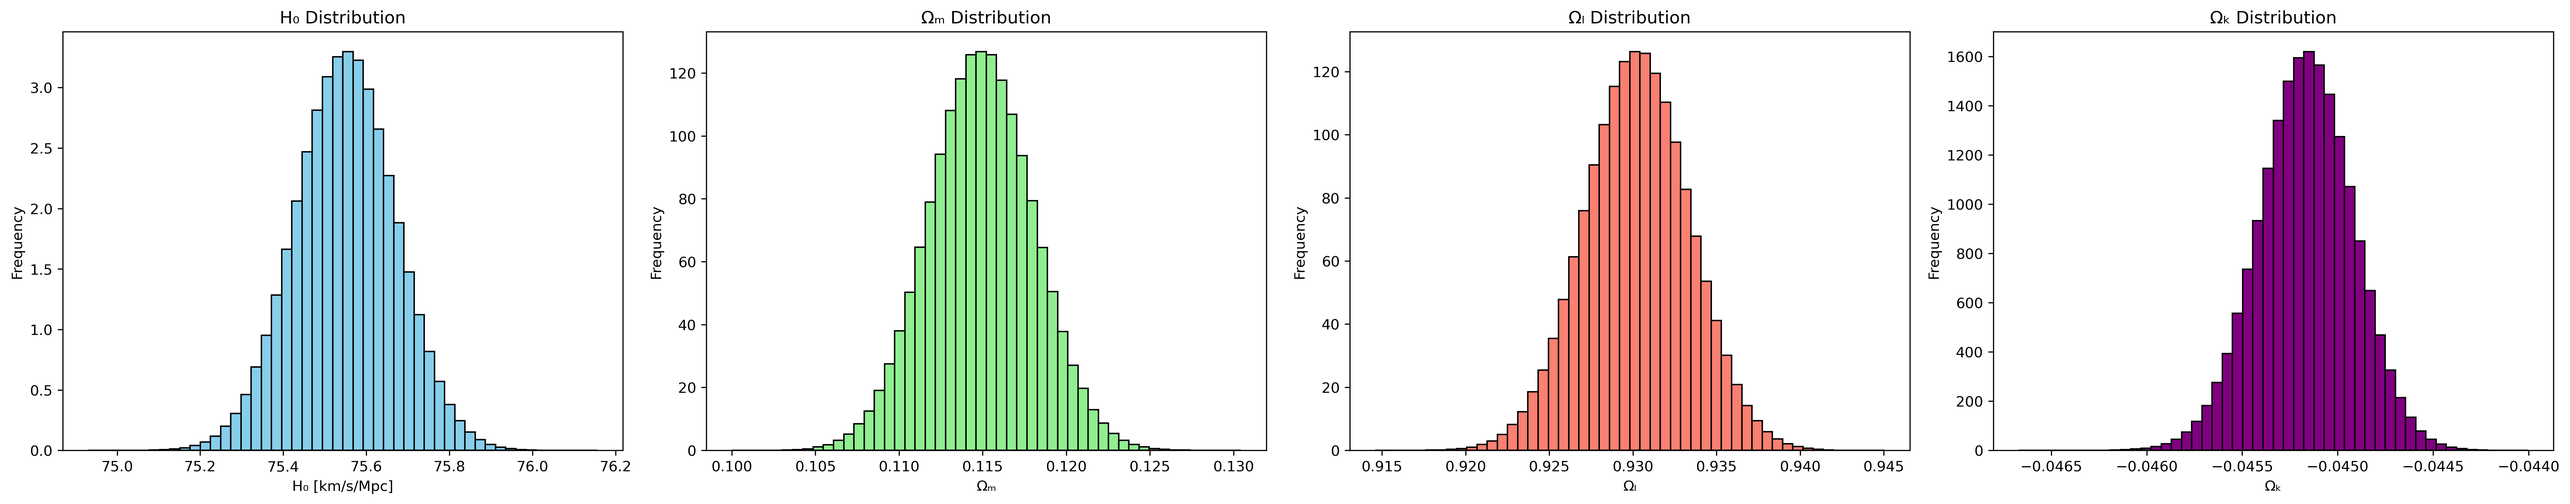
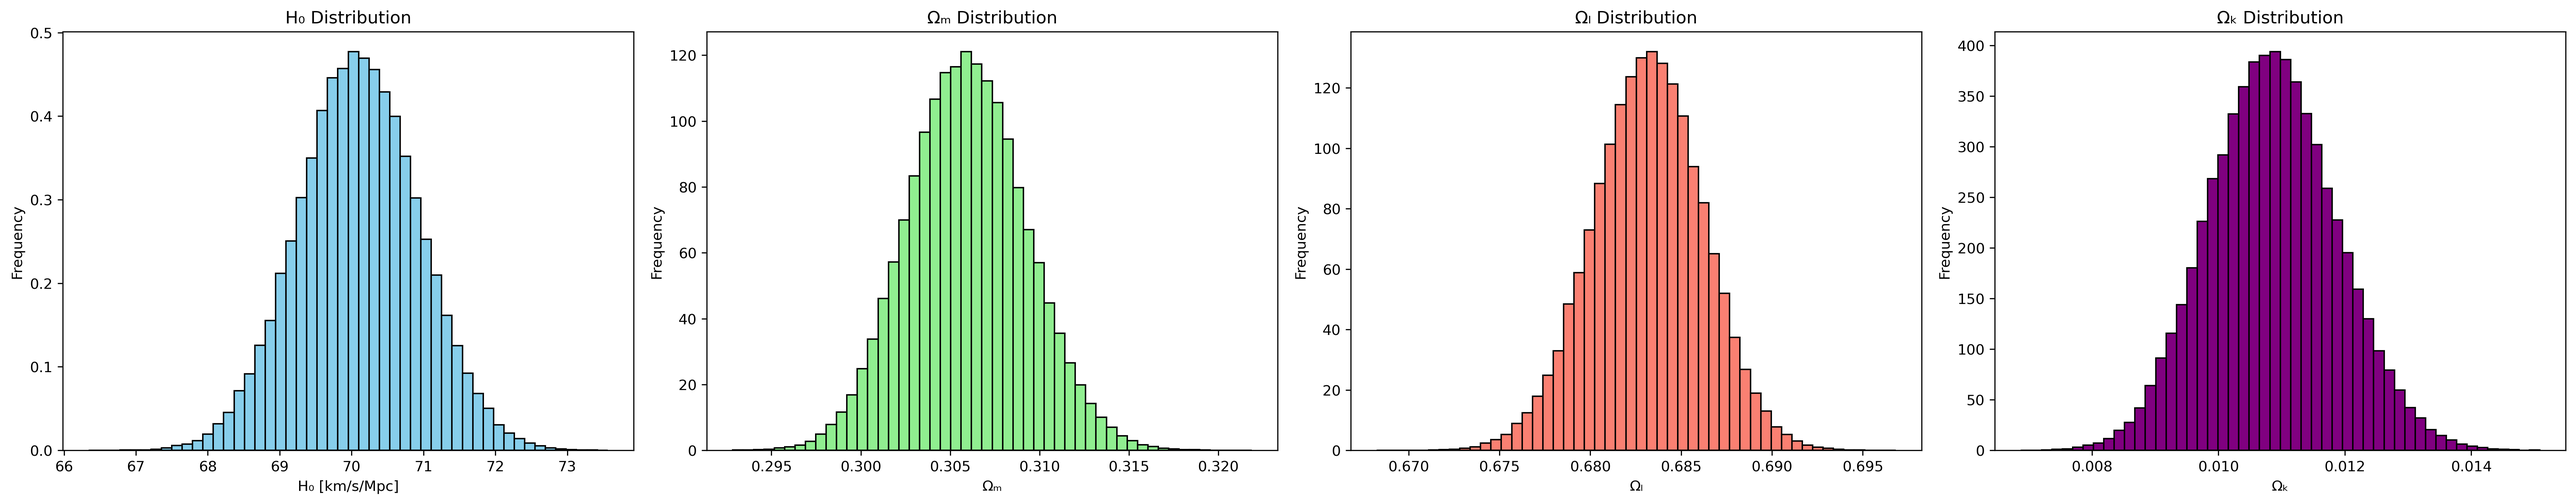
sbi working, matching results

diff --git a/Supernova_project/sbi_cosmology.py b/Supernova_project/sbi_cosmology.py
@@ -10,18 +10,49 @@ from sbi import inference as inference
 from sbi.neural_nets.factory import posterior_nn
 from sbi.analysis import pairplot
 import corner
+import random
 
-# Set seeds for reproducibility
+# Set global random seed at the very top of the file
 RANDOM_SEED = 42
-torch.manual_seed(RANDOM_SEED)
-np.random.seed(RANDOM_SEED)
-torch.backends.cudnn.deterministic = True
-torch.backends.cudnn.benchmark = False
+
+# Set seeds for all random number generators
+import os
+os.environ['PYTORCH_ENABLE_MPS_FALLBACK'] = '1'
+
+import torch
+import numpy as np
+import matplotlib.pyplot as plt
+from torch import nn
+from torch.distributions import Independent, Uniform, Normal
+from sbi import inference as inference
+from sbi.neural_nets.factory import posterior_nn
+from sbi.analysis import pairplot
+import corner
+
+# Set all random seeds
+def set_seed(seed):
+    """Set all random seeds for reproducibility"""
+    random.seed(seed)
+    np.random.seed(seed)
+    torch.manual_seed(seed)
+    if torch.cuda.is_available():
+        torch.cuda.manual_seed(seed)
+        torch.cuda.manual_seed_all(seed)
+        torch.backends.cudnn.deterministic = True
+        torch.backends.cudnn.benchmark = False
+    if hasattr(torch.backends, 'mps'):
+        torch.backends.mps.deterministic = True
+
+# Call set_seed at the start
+set_seed(RANDOM_SEED)
 
 class SBIConfig:
+    # Add random seed to config
+    RANDOM_SEED = RANDOM_SEED
+    
     # SBI settings
-    NUM_SIMULATIONS = 100000
-    NUM_POSTERIOR_SAMPLES = 1000000  # Increased for better posterior visualization
+    NUM_SIMULATIONS = 10000
+    NUM_POSTERIOR_SAMPLES = 100000  # Increased for better posterior visualization
     BATCH_SIZE = 128    
     # Physics constants
     C = 299792.458  # Speed of light in km/s
@@ -34,22 +65,22 @@ class SBIConfig:
     PLOT_PATH = '/Users/yhra/Documents/Master/Semester_3/BATIP/Supernova_project/Plots/'
     
     # Neural network settings
-    EMBEDDING_DIM = 16
-    HIDDEN_FEATURES = 128
-    NUM_TRANSFORMS = 10
+    EMBEDDING_DIM = 2
+    HIDDEN_FEATURES = 64
+    NUM_TRANSFORMS = 5
     
     EPSILON = 1e-5
-    DEVICE = torch.device("cpu")
+    DEVICE = torch.device("mps")
     
     # Parameter priors (mean, std)
     PARAM_PRIORS = {
         'flat': {
-            'H0': (71.0, 5),  # centered at 70 with std of 2.5
-            'Om': (0.3, 0.1)   # centered at 0.3 with std of 0.05
+            'H0': (70.0, 2.5),  # centered at 70 with std of 2.5
+            'Om': (0.3, 0.05)   # centered at 0.3 with std of 0.05
         },
         'curved': {
-            'H0': (71.0, 5),
-            'Om': (0.3, 0.1),  # centered at 0.45 with std of (0.9-0)/4
+            'H0': (70.0, 2.5),
+            'Om': (0.3, 0.05),  # centered at 0.45 with std of (0.9-0)/4
             'Ok': (0.0, 0.05)      # centered at 0 with std of 0.1
         }
     }
@@ -57,6 +88,7 @@ class SBIConfig:
 class CosmologicalSimulator:
     def __init__(self, z_obs, model_type="flat"):
         """Initialize the simulator with observed redshift values"""
+        set_seed(SBIConfig.RANDOM_SEED)  # Set seed in constructor
         self.z = torch.as_tensor(z_obs, dtype=torch.float32).clone().detach()
         self.model_type = model_type
         
@@ -205,12 +237,20 @@ def plot_training_data(z_obs, mu_obs, mu_err, theta, simulated_data, model_type=
         ax2.errorbar(z_obs.numpy(), mu_obs.numpy(), yerr=mu_err.numpy(),
                     fmt='r.', alpha=0.5, label='Data', markersize=2)
         
-        # Plot random subset of simulations with fixed seed
-        rng = np.random.RandomState(RANDOM_SEED)
-        indices = rng.choice(len(theta), 50, replace=False)
-        for idx in indices:
-            ax2.plot(z_obs.numpy(), simulated_data[idx].numpy(), 
-                    'b-', alpha=0.1)
+        # Plot all simulations to show distribution
+        simulated_mean = simulated_data.mean(dim=0).numpy()
+        simulated_std = simulated_data.std(dim=0).numpy()
+        
+        # Plot mean and standard deviation bands
+        ax2.fill_between(z_obs.numpy(), 
+                        simulated_mean - 2*simulated_std,
+                        simulated_mean + 2*simulated_std,
+                        color='b', alpha=0.1, label='2σ region')
+        ax2.fill_between(z_obs.numpy(),
+                        simulated_mean - simulated_std,
+                        simulated_mean + simulated_std,
+                        color='b', alpha=0.2, label='1σ region')
+        ax2.plot(z_obs.numpy(), simulated_mean, 'b-', label='Mean prediction')
         
         ax2.set_xlabel('Redshift (z)')
         ax2.set_ylabel('Distance Modulus (μ)')
@@ -257,12 +297,25 @@ def plot_training_data(z_obs, mu_obs, mu_err, theta, simulated_data, model_type=
         ax3.errorbar(z_obs.numpy(), mu_obs.numpy(), yerr=mu_err.numpy(),
                     fmt='r.', alpha=0.5, label='Data', markersize=2)
         
-        # Plot random subset of simulations
-        rng = np.random.RandomState(RANDOM_SEED)
-        indices = rng.choice(len(theta), 50, replace=False)
-        for idx in indices:
-            ax3.plot(z_obs.numpy(), simulated_data[idx].numpy(), 
-                    'b-', alpha=0.1)
+        # Plot all simulations to show distribution
+        simulated_mean = simulated_data.mean(dim=0).numpy()
+        simulated_std = simulated_data.std(dim=0).numpy()
+        
+        # Plot mean and standard deviation bands
+        ax3.fill_between(z_obs.numpy(), 
+                        simulated_mean - 2*simulated_std,
+                        simulated_mean + 2*simulated_std,
+                        color='b', alpha=0.2, label='95% CI')
+        ax3.fill_between(z_obs.numpy(),
+                        simulated_mean - simulated_std, 
+                        simulated_mean + simulated_std,
+                        color='b', alpha=0.3, label='68% CI')
+        ax3.plot(z_obs.numpy(), simulated_mean, 'b-', label='Mean prediction')
+        
+        # Plot all individual simulations with high transparency
+        for i in range(len(simulated_data)):
+            ax3.plot(z_obs.numpy(), simulated_data[i].numpy(),
+                    'b-', alpha=0.01)
         
         ax3.set_xlabel('Redshift (z)')
         ax3.set_ylabel('Distance Modulus (μ)')
@@ -292,6 +345,7 @@ def plot_training_data(z_obs, mu_obs, mu_err, theta, simulated_data, model_type=
 class CosmologySBI:
     def __init__(self, z_obs, mu_obs, mu_err):
         """Initialize the SBI trainer with observed data"""
+        set_seed(SBIConfig.RANDOM_SEED)  # Set seed in constructor
         self.z_obs = z_obs
         self.mu_obs = mu_obs
         self.mu_err = mu_err
@@ -336,6 +390,7 @@ class CosmologySBI:
     
     def train(self):
         """Train the neural network"""
+        set_seed(SBIConfig.RANDOM_SEED)  # Set seed before training
         # Setup prior based on current model type
         self.setup_prior()
         
@@ -380,9 +435,10 @@ class CosmologySBI:
             training_batch_size=SBIConfig.BATCH_SIZE
         )
         self.posterior = self.posterior_estimator.build_posterior(density_estimator)
-    # TODO: 
+    
     def sample_posterior(self, num_samples=None):
         """Sample from the posterior distribution"""
+        set_seed(SBIConfig.RANDOM_SEED)  # Set seed before sampling
         if num_samples is None:
             num_samples = SBIConfig.NUM_POSTERIOR_SAMPLES
         return self.posterior.sample((num_samples,), x=self.mu_obs)
@@ -390,6 +446,7 @@ class CosmologySBI:
 
     def back_test_network(self):
         """Test the network with simulated data"""
+        set_seed(SBIConfig.RANDOM_SEED)  # Set seed before back testing
         # create fake data
         theta = self.prior.sample((1,))  # Sample a single set of parameters
         x = self.simulator.simulate(theta)
@@ -449,8 +506,12 @@ def plot_scientific_results(samples_flat=None, samples_curved=None, data_type="r
         # Create figure
         if model_type == "flat":
             fig, axes = plt.subplots(1, 3, figsize=(20, 5))
+            fig.suptitle(f'Parameter Distributions for Flat ΛCDM Model{" (Simulated Data)" if data_type=="fake" else ""}', 
+                        fontsize=16, y=1.05)
         else:
             fig, axes = plt.subplots(1, 4, figsize=(25, 5))
+            fig.suptitle(f'Parameter Distributions for Curved ΛCDM Model{" (Simulated Data)" if data_type=="fake" else ""}', 
+                        fontsize=16, y=1.05)
         
         # Common plot settings
         plt.rcParams.update({
@@ -464,26 +525,26 @@ def plot_scientific_results(samples_flat=None, samples_curved=None, data_type="r
         
         # H0 distribution
         axes[0].hist(samples[:, 0], bins=50, color='skyblue', edgecolor='black', density=True)
-        axes[0].set_title('H₀ Distribution')
+        axes[0].set_title('Hubble Parameter Distribution')
         axes[0].set_xlabel('H₀ [km/s/Mpc]')
         axes[0].set_ylabel('Frequency')
         
         # Omega_m distribution
         axes[1].hist(samples[:, 1], bins=50, color='lightgreen', edgecolor='black', density=True)
-        axes[1].set_title('Ωₘ Distribution')
+        axes[1].set_title('Matter Density Distribution')
         axes[1].set_xlabel('Ωₘ')
         axes[1].set_ylabel('Frequency')
         
         # Omega_lambda distribution
         axes[2].hist(omega_l, bins=50, color='salmon', edgecolor='black', density=True)
-        axes[2].set_title('Ωₗ Distribution')
+        axes[2].set_title('Dark Energy Density Distribution')
         axes[2].set_xlabel('Ωₗ')
         axes[2].set_ylabel('Frequency')
         
         if model_type == "curved":
             # Ok distribution
             axes[3].hist(samples[:, 2], bins=50, color='purple', edgecolor='black', density=True)
-            axes[3].set_title('Ωₖ Distribution')
+            axes[3].set_title('Curvature Density Distribution')
             axes[3].set_xlabel('Ωₖ')
             axes[3].set_ylabel('Frequency')
         
@@ -496,15 +557,41 @@ def plot_scientific_results(samples_flat=None, samples_curved=None, data_type="r
 
         # Create corner plot
         if model_type == "curved":
-            fig = corner.corner(samples, labels=['H0', 'Om', 'Ok'], 
-                              plot_datapoints=False, plot_density=False, 
-                              contours=True, fill_contours=True, 
-                              levels=[0.68, 0.95, 0.997])
+            fig = corner.corner(
+                samples, 
+                labels=['H₀', 'Ωₘ', 'Ωₖ'], 
+                plot_datapoints=False, 
+                plot_density=False, 
+                contours=True, 
+                fill_contours=True, 
+                levels=[0.68, 0.95, 0.997],
+                title_kwargs={"fontsize": 16},
+                label_kwargs={"fontsize": 14}, 
+                color="skyblue"
+            )
+            plt.suptitle(
+                f'Corner Plot for Curved ΛCDM Model{" (Simulated Data)" if data_type=="fake" else ""}', 
+                fontsize=16, 
+                y=1.02
+            )
         else:
-            fig = corner.corner(samples, labels=['H0', 'Om'], 
-                              plot_datapoints=False, plot_density=False, 
-                              contours=True, fill_contours=True, 
-                              levels=[0.68, 0.95, 0.997])
+            fig = corner.corner(
+                samples, 
+                labels=['H₀', 'Ωₘ'], 
+                plot_datapoints=False, 
+                plot_density=False, 
+                contours=True, 
+                fill_contours=True, 
+                levels=[0.68, 0.95, 0.997],
+                title_kwargs={"fontsize": 16},
+                label_kwargs={"fontsize": 14}, 
+                color="skyblue"
+            )
+            plt.suptitle(
+                f'Corner Plot for Flat ΛCDM Model{" (Simulated Data)" if data_type=="fake" else ""}', 
+                fontsize=16, 
+                y=1.02
+            )
             
         if data_type == "fake":
             plt.savefig(f'{SBIConfig.PLOT_PATH}sbi_{model_type}_corner_plot_fake.png', dpi=300, bbox_inches='tight')
@@ -514,9 +601,9 @@ def plot_scientific_results(samples_flat=None, samples_curved=None, data_type="r
 
 
 
-
-
 if __name__ == "__main__":
+    set_seed(RANDOM_SEED)  # Set seed at start of main
+    
     # Load real data
     z_obs, mu_obs, mu_err = load_real_data()
     print(f"Using {len(z_obs)} data points after filtering")
